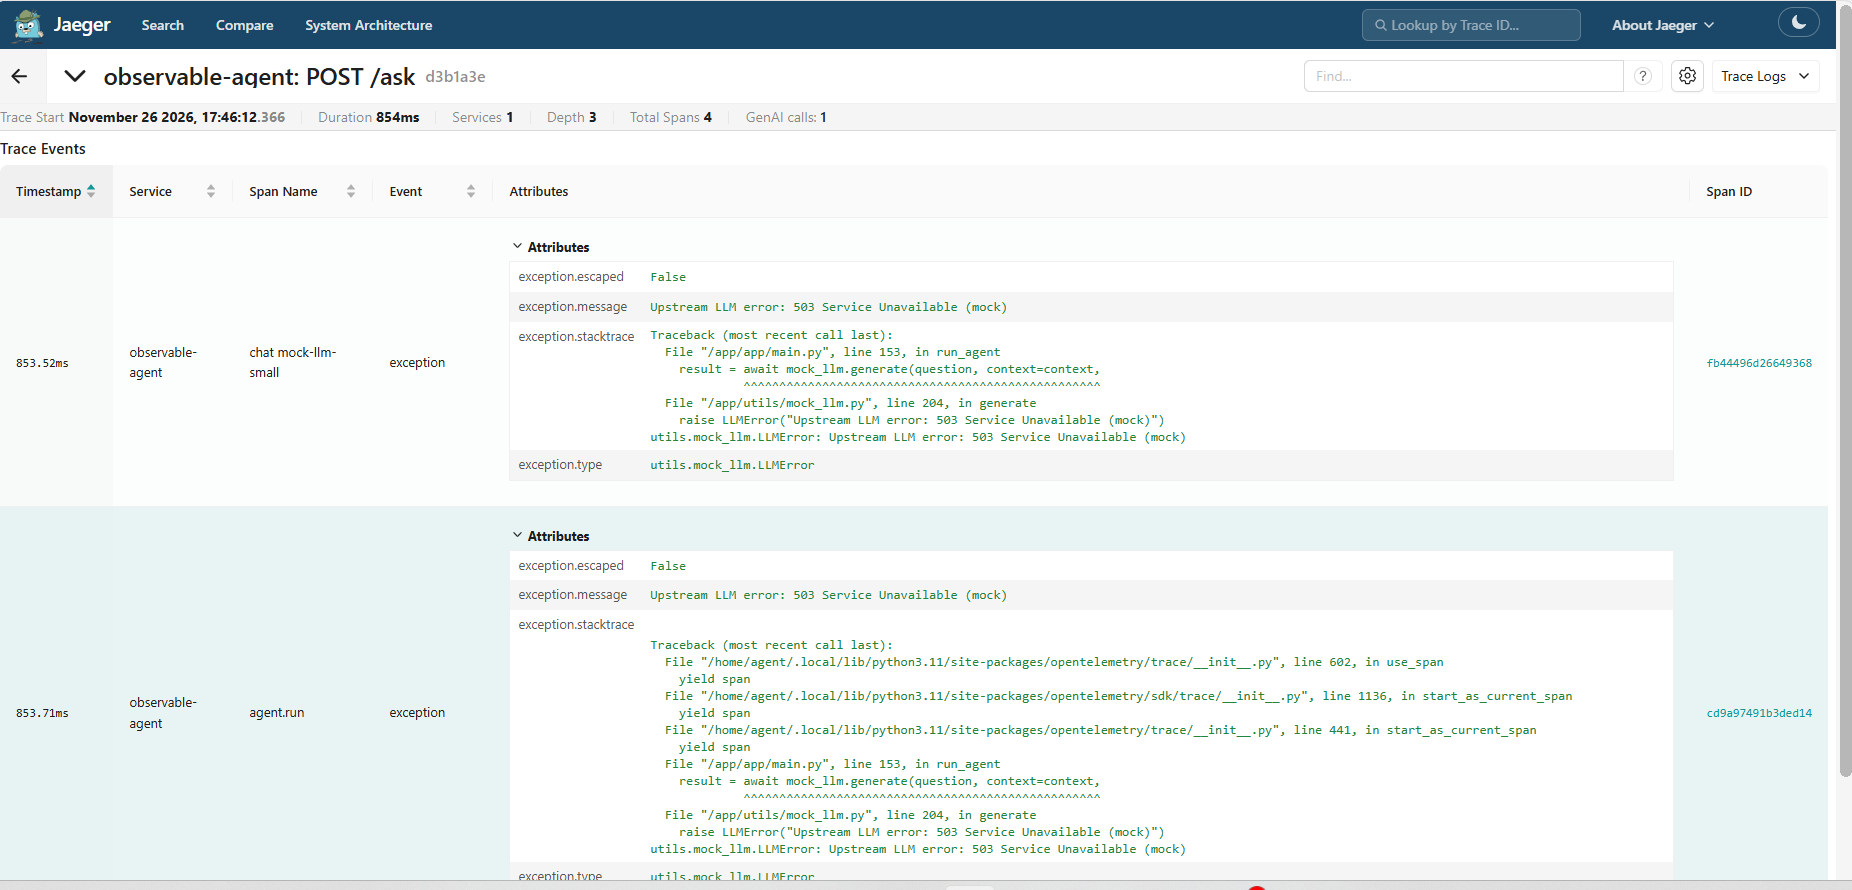
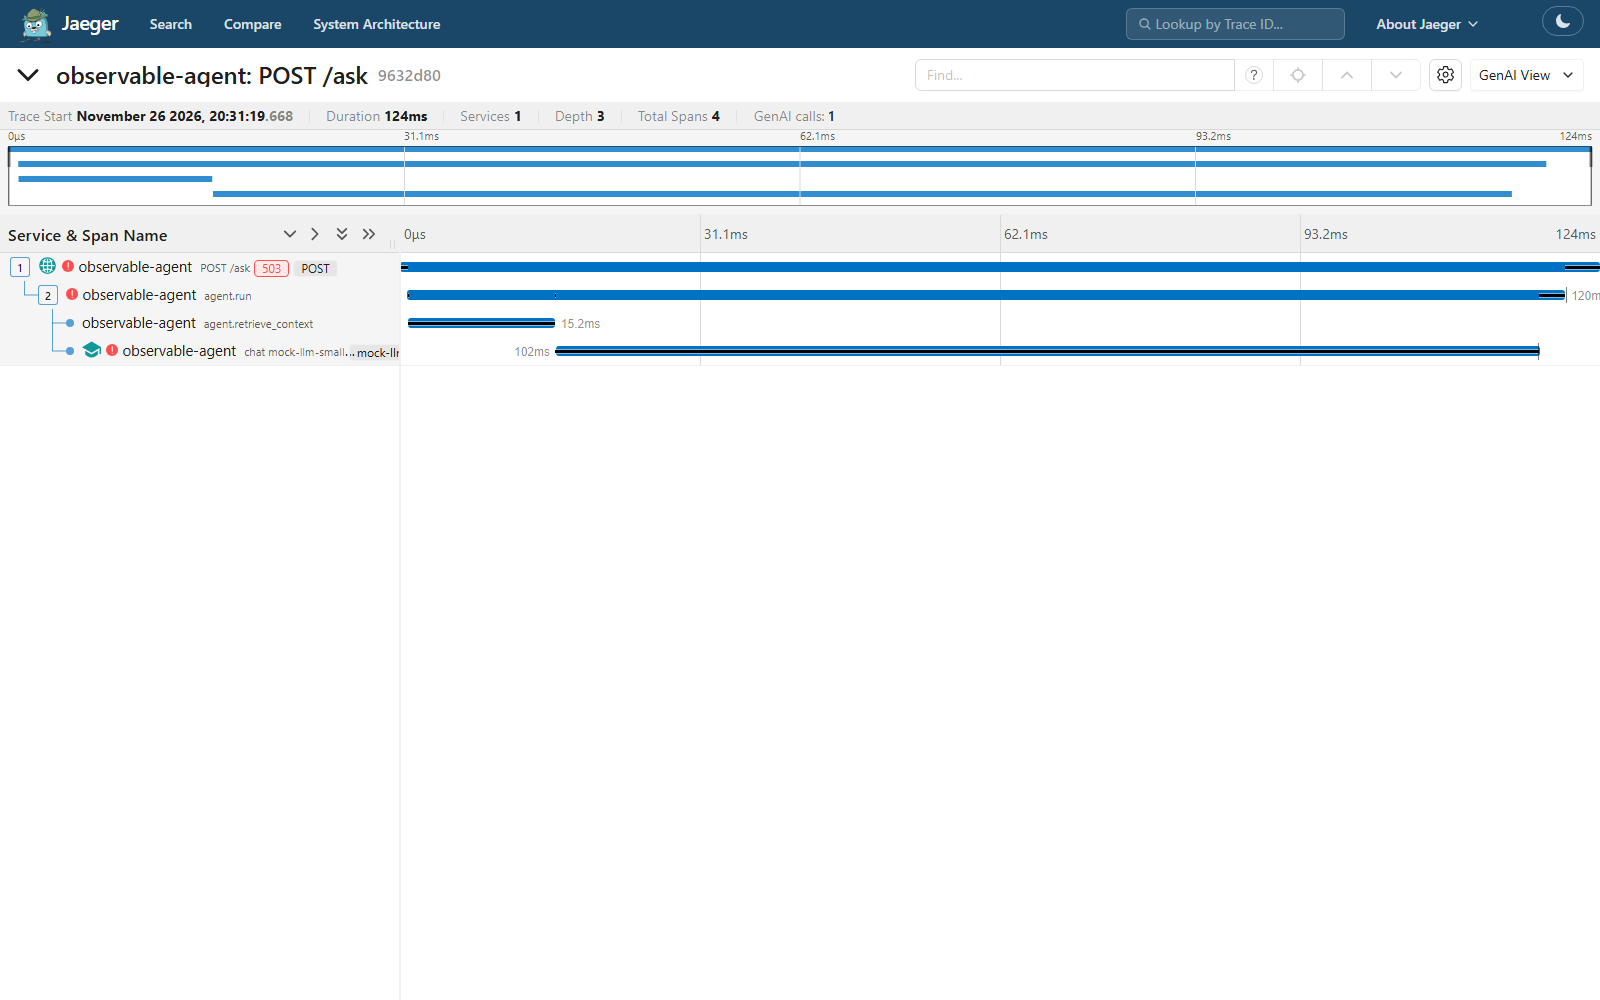
Match Jaeger evidence and measure alert firing times

diff --git a/BENCHMARK_REPORT.md b/BENCHMARK_REPORT.md
@@ -85,22 +85,28 @@ Trong CI, chạy `eval/run_eval.py` với ngưỡng accuracy và baseline đã c
 
 | # | Thay đổi | Alert nào firing | Thời gian từ lúc đổi → firing | Panel nào phản ánh rõ nhất |
 |---|---|---|---|---|
-| A | `MOCK_ERROR_RATE=0.2` | `AgentHighErrorRate` | Pending 17:40:42 → firing 17:41:42 (60 giây từ pending) | Error rate khoảng 20,05%, vượt ngưỡng 5% |
-| B | `MOCK_SLOW_RATE=0.3` | `AgentHighLatencyP95` | Pending 17:40:37 → firing 17:42:37 (120 giây từ pending) | p95 khoảng 1,88 giây, vượt ngưỡng 1 giây |
-| C | `LLM_MODEL=mock-llm-large` | Chưa có kết quả đo | Chưa đo | Cost USD/giờ |
-| D | `docker pause` 1 instance | Chưa có kết quả đo | Chưa đo | Instances up |
-| E | `AGENT_VERSION=v1` | Phân tích dựa trên eval local | Không áp dụng | Quality gate |
+| A | `MOCK_ERROR_RATE=0.2` | `AgentHighErrorRate` | Khoảng 74,0 giây | Error rate khoảng 22,36%, vượt ngưỡng 5% |
+| B | `MOCK_SLOW_RATE=0.3` | `AgentHighLatencyP95` | Khoảng 134,4 giây | p95 khoảng 1,89 giây, vượt ngưỡng 1 giây |
+| C | `LLM_MODEL=mock-llm-large` | `LLMCostBurnRateHigh` | Khoảng 144,1 giây | Chi phí ước tính 15,88 USD/giờ, vượt ngưỡng 2 USD/giờ |
+| D | `docker pause` 1 instance | `AgentInstanceDown` | Khoảng 40,3 giây | Prometheus ghi `up=0` cho instance bị pause |
+| E | `AGENT_VERSION=v1` | So sánh kết quả eval local | Không áp dụng | Quality gate: v1 đúng 1/23, v2 sau khi sửa đúng 23/23 |
 
-Các mốc trên lấy từ lịch sử metric `ALERTS` trên Prometheus ngày 26/11/2026, giờ Việt Nam. Thời điểm áp dụng cấu hình không được lưu, nên thời gian trong bảng tính từ mẫu `pending` đầu tiên.
+Đo lại A và B cùng lúc ngày 26/11/2026. Bắt đầu tính lúc chạy lệnh áp dụng cấu hình lúc 21:04:39, giờ Việt Nam, rồi chạy Locust với 30 users, ramp-up 5 users/giây. API Prometheus được kiểm tra khoảng 2 giây một lần. Ảnh Alerts chụp ở lần chạy trước cho thấy hai alert cùng firing, với error rate khoảng 20,05% và p95 khoảng 1,88 giây.
+
+Ở C, thời gian được tính từ lúc chạy lệnh đổi model lúc 21:06:59, với cùng cấu hình tải. Chi phí là ước tính của mock LLM.
+
+Ở D, thời gian được tính từ lúc chạy `docker pause` lúc 21:09:43. Container vẫn là một target trong Docker DNS nhưng Prometheus không scrape được. Sau khi ghi nhận alert, dùng `docker unpause` để khôi phục replica.
+
+Kiểm thử rule bằng `promtool test rules /p/alert_rules_test.yml` trả về `SUCCESS`.
 
 **Phát hiện regression chất lượng trong production**
 Sự cố tụt giảm độ chính xác tri thức (semantic regression) không gây lỗi HTTP hay chậm mạng nên metrics hạ tầng không báo động. Cách phát hiện là chạy định kỳ **Automated Continuous Eval (Quality Gate)** với bộ Golden Dataset trên môi trường staging/canary trước khi rollout, kết hợp thu thập user feedback (thumbs up/down) trong production.
 
 ### 4.3 Debug bằng trace
 
-- Trace chậm: `POST /ask` trả HTTP 200, tổng khoảng 1,7 giây. Span `chat mock-llm-small` khoảng 1,7 giây, còn `agent.retrieve_context` mất 26,2 ms. Jaeger hiển thị ID rút gọn `58f07df`.
-- Trace lỗi: `POST /ask` trả HTTP 503 trong 854 ms. Span `chat mock-llm-small` mất 836 ms và ghi exception `Upstream LLM error: 503 Service Unavailable (mock)`. Jaeger hiển thị ID rút gọn `d3b1a3e`.
-- Đối chiếu bổ sung bằng hai request khác với ảnh đã chụp. Jaeger API trả HTTP 200 khi truy vấn từng trace ID đầy đủ bên dưới. Log JSON của agent có cùng ID. Request chậm ghi nhận LLM mất 1.673,7 ms, còn request lỗi ghi nhận mock upstream trả 503.
+- [Trace chậm](screenshots/jaeger-slow-trace.png): `POST /ask` trả HTTP 200 trong khoảng 1,8 giây. Span con chậm nhất là `chat mock-llm-small`, khoảng 1,7 giây. Log ghi LLM mất **1.673,7 ms**, còn span `agent.retrieve_context` trên ảnh mất **17,4 ms**. ID trên ảnh bắt đầu bằng `0ba9162`.
+- [Trace lỗi](screenshots/jaeger-error-trace.png): `POST /ask` trả HTTP 503 trong **124 ms**. Span `chat mock-llm-small` có dấu lỗi đỏ và kéo dài khoảng **102 ms**. Log ghi `Upstream LLM error: 503 Service Unavailable (mock)`. ID trên ảnh bắt đầu bằng `9632d80`.
+- Hai ảnh Jaeger và hai dòng log bên dưới khớp theo `trace_id`. Jaeger API trả HTTP 200 khi truy vấn các ID đầy đủ.
 
 ```jsonl
 {"ts":"2026-11-26T12:43:29.715007+00:00","level":"INFO","service":"observable-agent","instance":"5a1a08cccba7","event":"llm_call","trace_id":"0ba9162a2e8a6642fc775e816def2160","span_id":"0959f406deb0a95c","request_id":"64839ce8605b","model":"mock-llm-small","agent_version":"v2","input_tokens":95,"output_tokens":55,"cost_usd":4.7e-05,"llm_ms":1673.7}

diff --git a/MISSION_ANSWERS.md b/MISSION_ANSWERS.md
@@ -196,6 +196,7 @@ Kiểm tra lại ngày 26/11/2026 bằng `python3 check_production_ready.py` tro
 - **Bằng chứng kiểm tra:** Người làm bài chạy lại stack sau khi sửa Dockerfile và ghi nhận ba agent healthy, gọi thử bốn endpoint Railway, chạy Locust và chụp ảnh Grafana, Jaeger, Prometheus. Các số scaling được đối chiếu với CSV.
 - **Rà soát bổ sung:** Codex chạy mẫu Part 1, đo image và gọi qua Nginx Part 2, chạy lại bài stateless Part 5 và script chấm Part 6 trên máy local. Mốc alert được đối chiếu với lịch sử Prometheus và trace được đối chiếu với log JSON của agent.
 - **Kiểm tra cuối:** Codex chạy lại HTTP test API key/JWT của Part 4, truy vấn mẫu Prometheus để trả lời Exercise 7.4 và đối chiếu ảnh deploy với các mã HTTP đã xác nhận.
+- **Bổ sung Part 7:** Codex chụp lại hai trace Jaeger để khớp với log JSON đã đối chiếu, rồi đo lại thời gian alert trên stack local từ lúc chạy lệnh áp dụng cấu hình.
 - **Nội dung hỏi:**
   - Hướng dẫn cấu hình môi trường WSL2 / Docker trên Windows 11.
   - Phân tích yêu cầu và kiến trúc chuẩn 12 tiêu chí Production-ready AI Agent.
